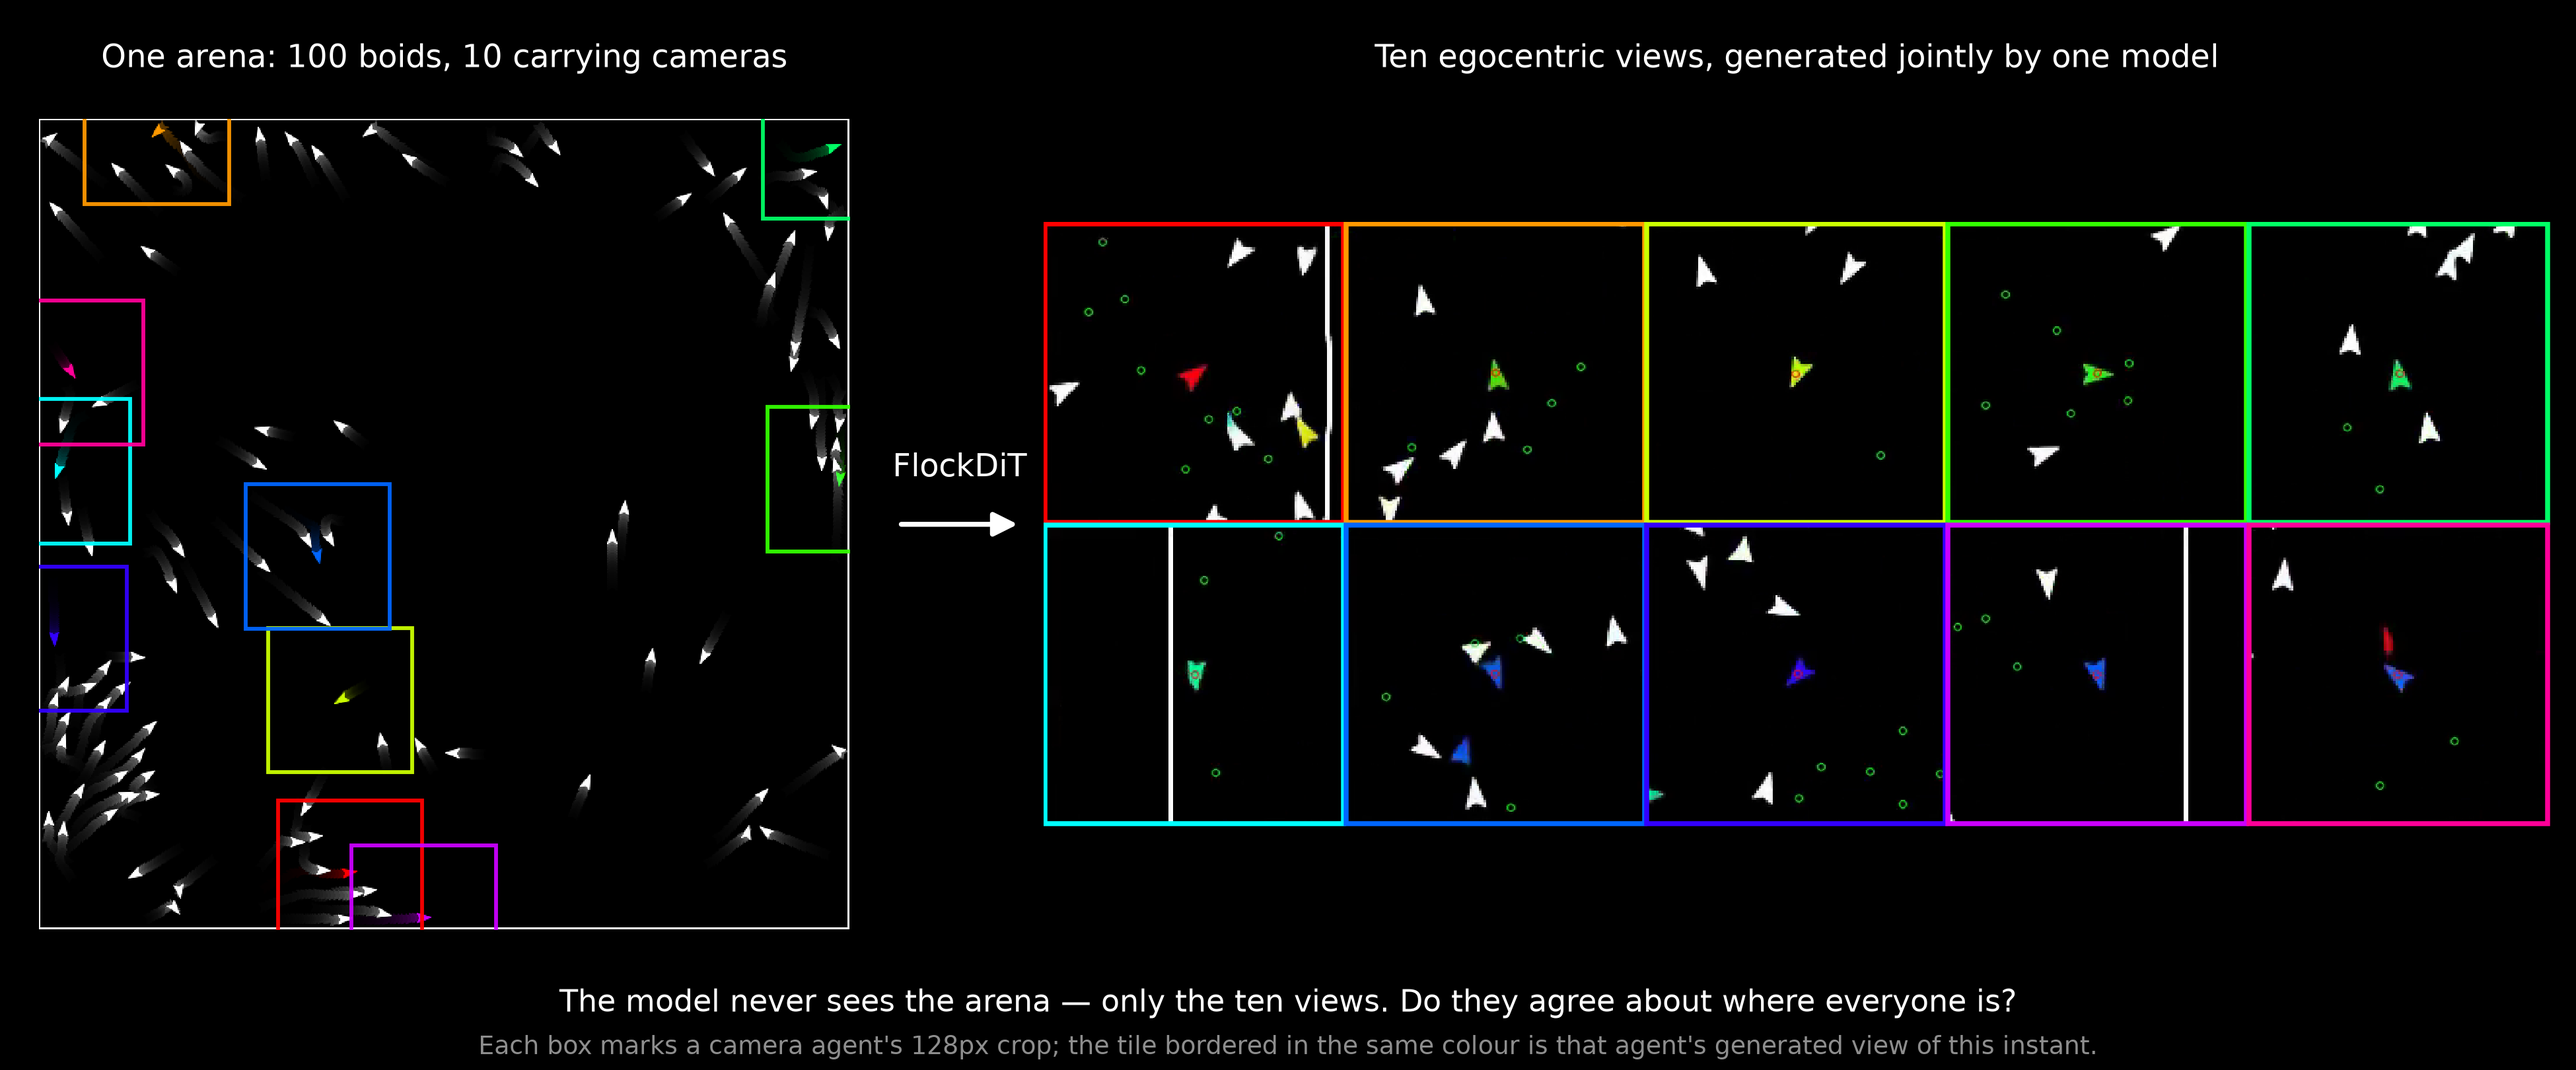
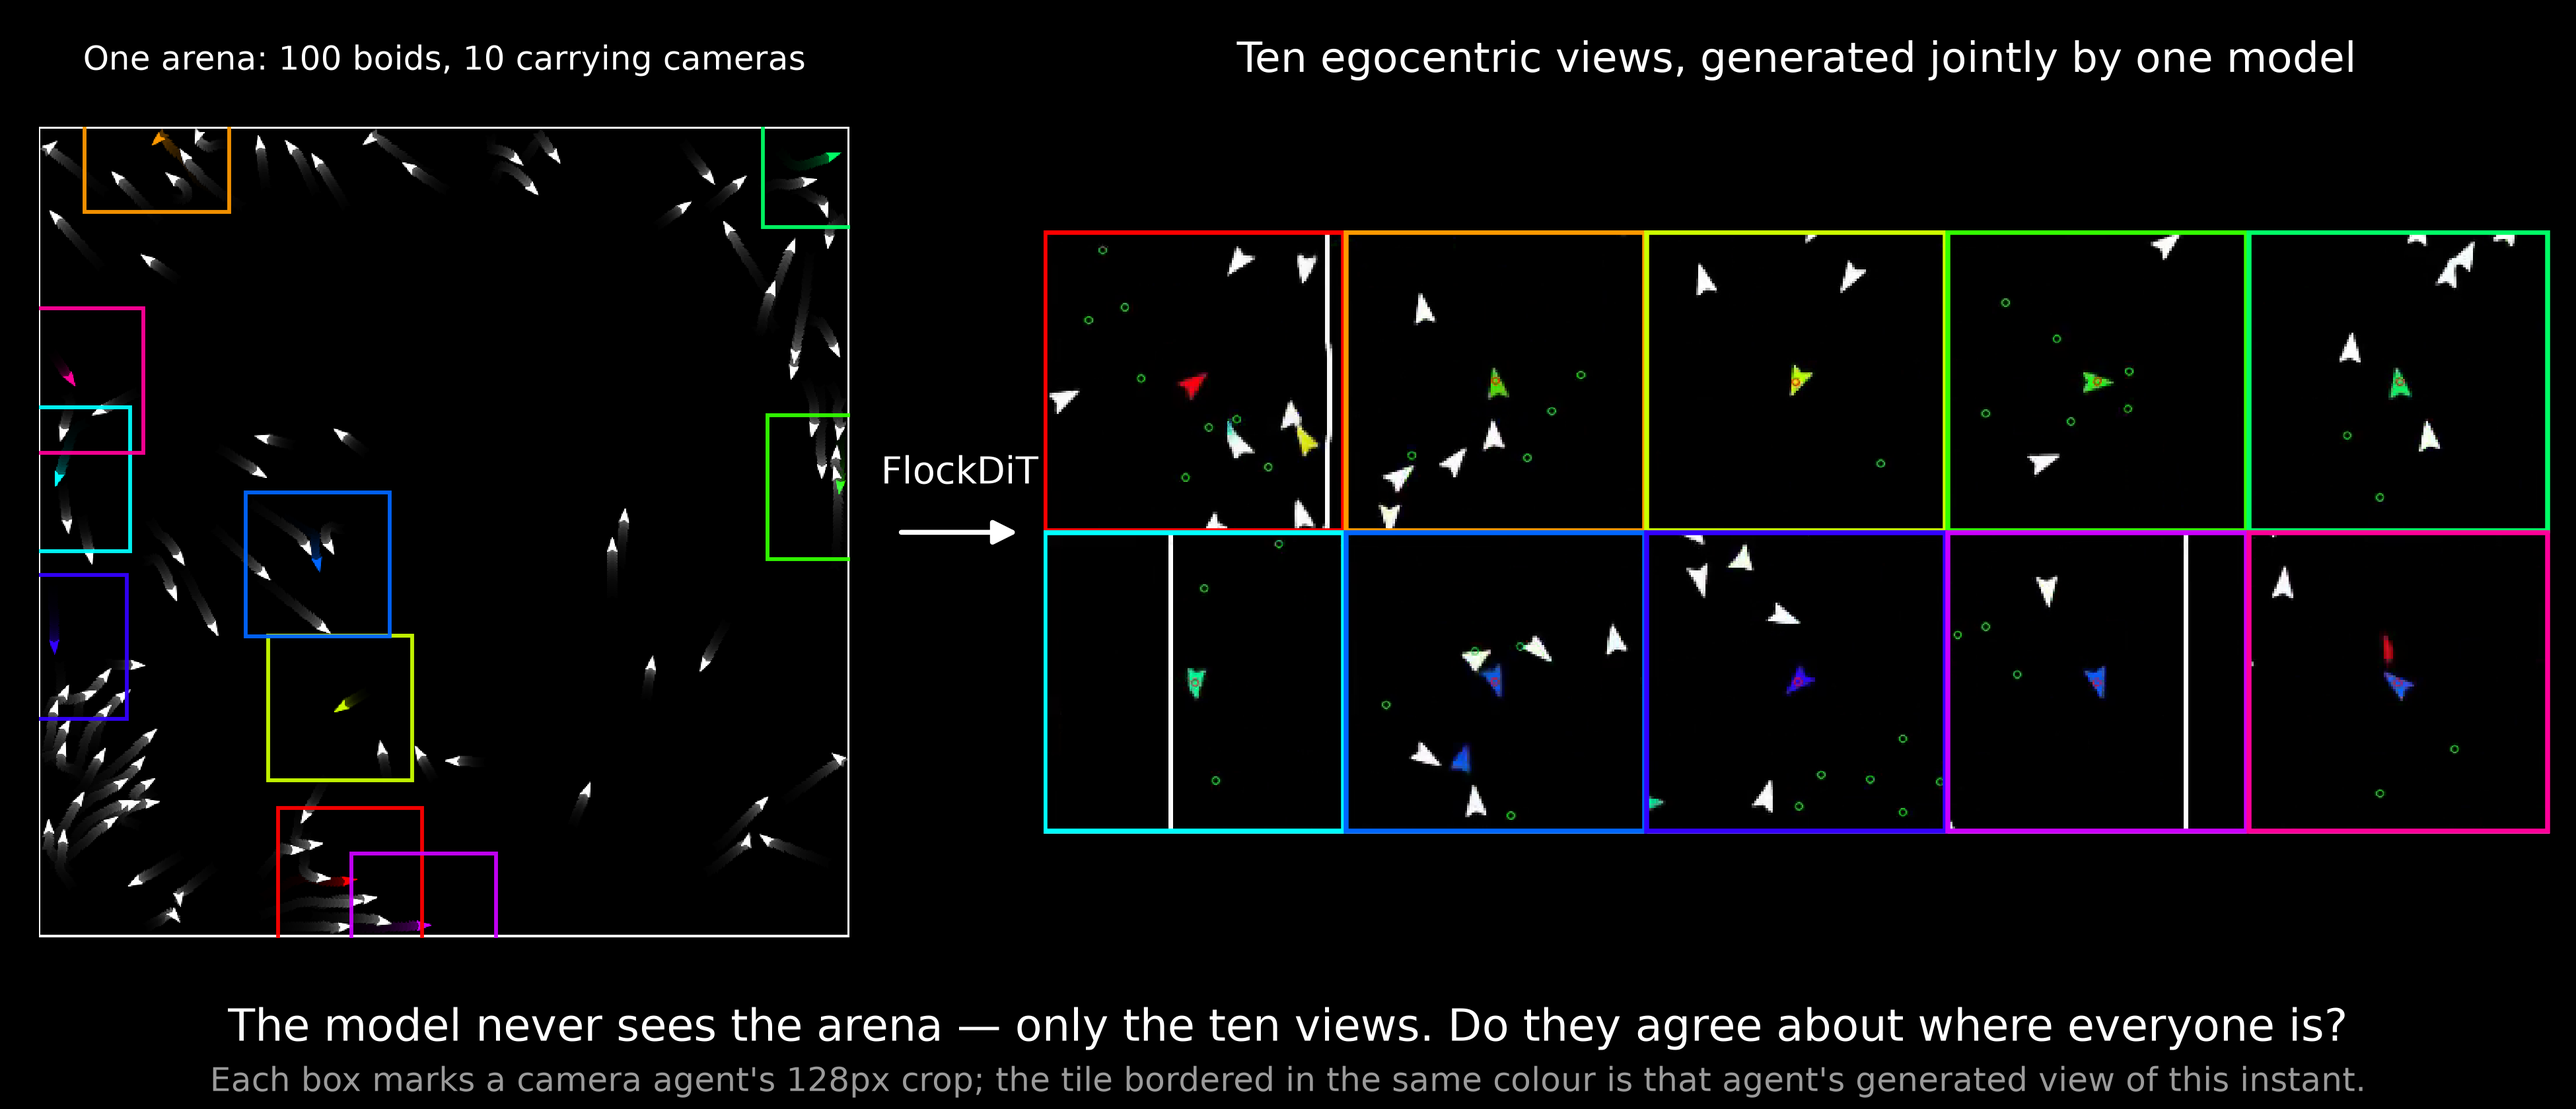
docs: enlarge the teaser figure's type
The right-hand title carries a much wider panel than the left one, so it now
sets larger to read at the same weight, and the question and caption under the
figure grow with it. Point sizes are named constants at the top of the
generator.

diff --git a/gen_hero_teaser.py b/gen_hero_teaser.py
@@ -48,6 +48,14 @@ SUBCAPTION = ("Each box marks a camera agent's 128px crop; the tile bordered in 
               "that agent's generated view of this instant.")
 QUESTION = "The model never sees the arena — only the ten views. Do they agree about where everyone is?"
 
+# Point sizes. The right title carries a much wider panel than the left, so it
+# is set larger to read at the same weight.
+FS_TITLE_L = 12.0
+FS_TITLE_R = 15.0
+FS_QUESTION = 16.0
+FS_SUBCAPTION = 12.0
+FS_ARROW = 13.5
+
 
 def agent_hue(k: int, p: int) -> tuple[float, float, float]:
     """The renderer's own identity colour for camera agent ``k``."""
@@ -141,12 +149,12 @@ def _compose(arena, positions, tiles, crop, rows, cols, out_stem, dpi):
 
     # One row: arena, arrow, tiles. Widths in figure units track pixel aspect so
     # neither panel is stretched.
-    fig_w, fig_h = 13.0, 5.4
+    fig_w, fig_h = 13.0, 5.6
     fig = plt.figure(figsize=(fig_w, fig_h), facecolor="black")
 
-    ax_a = fig.add_axes([0.015, 0.09, 0.315, 0.84])
-    ax_m = fig.add_axes([0.345, 0.09, 0.055, 0.84])
-    ax_t = fig.add_axes([0.405, 0.09, 0.585, 0.84])
+    ax_a = fig.add_axes([0.015, 0.12, 0.315, 0.80])
+    ax_m = fig.add_axes([0.345, 0.12, 0.055, 0.80])
+    ax_t = fig.add_axes([0.405, 0.12, 0.585, 0.80])
     for ax in (ax_a, ax_m, ax_t):
         ax.set_facecolor("black")
         ax.set_xticks([]), ax.set_yticks([])
@@ -168,7 +176,7 @@ def _compose(arena, positions, tiles, crop, rows, cols, out_stem, dpi):
         arrowprops=dict(arrowstyle="-|>", color="white", linewidth=1.8,
                         mutation_scale=18),
     )
-    ax_m.text(0.5, 0.545, "FlockDiT", color="white", fontsize=11.5,
+    ax_m.text(0.5, 0.545, "FlockDiT", color="white", fontsize=FS_ARROW,
               ha="center", va="bottom", transform=ax_m.transAxes)
 
     ax_t.imshow(tiles, interpolation="nearest")
@@ -188,13 +196,13 @@ def _compose(arena, positions, tiles, crop, rows, cols, out_stem, dpi):
 
     # Titles as figure text, so both sit on one baseline regardless of how each
     # image letterboxes inside its axes.
-    for ax, caption in ((ax_a, CAPTION_L), (ax_t, CAPTION_R)):
+    for ax, caption, size in ((ax_a, CAPTION_L, FS_TITLE_L), (ax_t, CAPTION_R, FS_TITLE_R)):
         box = ax.get_position()
         fig.text(box.x0 + box.width / 2, 0.945, caption, color="white",
-                 fontsize=11.5, ha="center", va="center")
-    fig.text(0.5, 0.062, QUESTION, color="white", fontsize=11,
+                 fontsize=size, ha="center", va="center")
+    fig.text(0.5, 0.072, QUESTION, color="white", fontsize=FS_QUESTION,
              ha="center", va="center")
-    fig.text(0.5, 0.021, SUBCAPTION, color="#8e8e8e", fontsize=9,
+    fig.text(0.5, 0.024, SUBCAPTION, color="#9a9a9a", fontsize=FS_SUBCAPTION,
              ha="center", va="center")
 
     fig.savefig(out_stem.with_suffix(".png"), dpi=dpi, facecolor="black",
